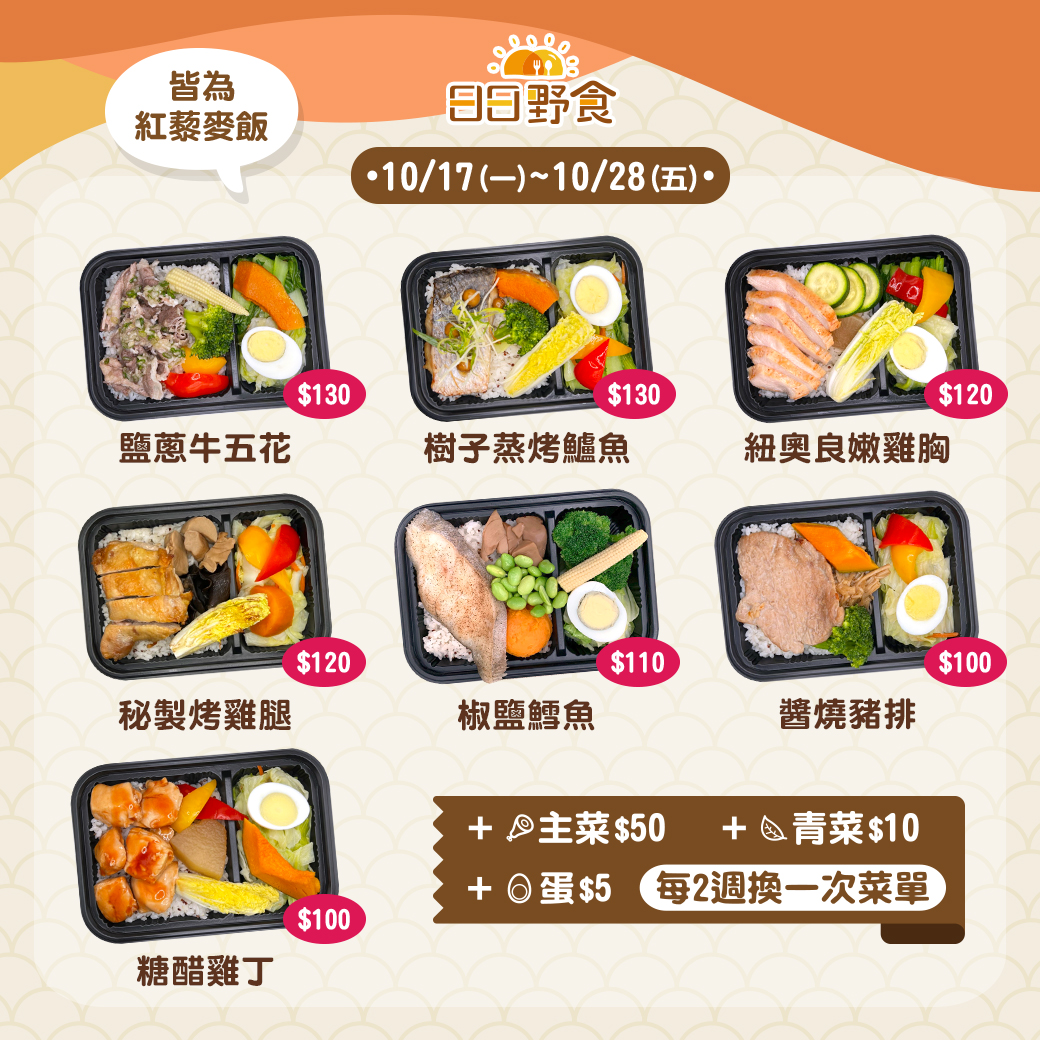
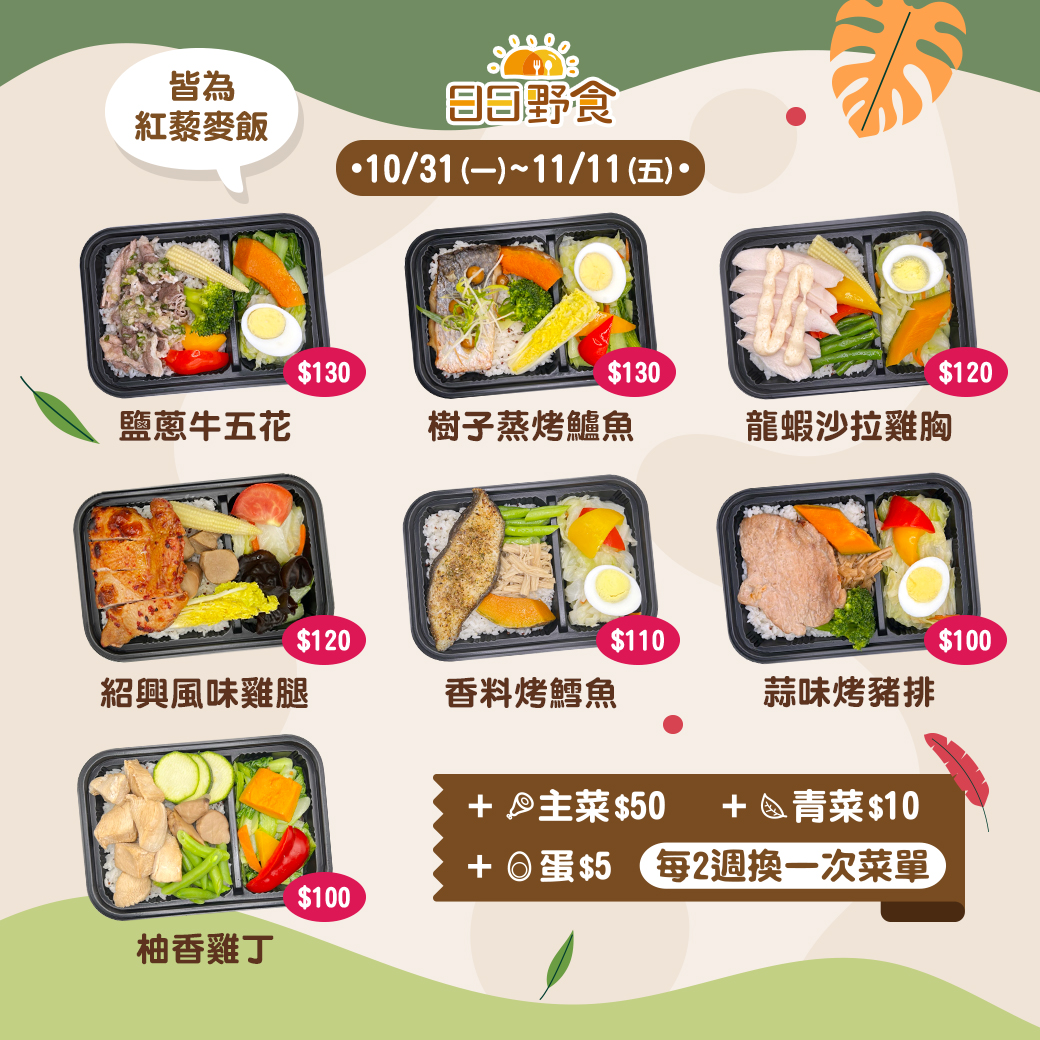
10/31

diff --git a/index.html b/index.html
@@ -137,9 +137,9 @@
 		<div class="row">
 			<div class="col-sm-6">
 				<div class="block wow fadeInLeft" data-wow-delay=".3s" data-wow-duration="500ms">
-					<!-- <div class="alert alert-secondary" role="alert">
-						📢9月份外送優惠，中正區、萬華區外送滿2000，現折200！其他地區現折100！<a href="delivery/index.html" class="btn btn-warning btn-sm"><i class="fa-solid fa-motorcycle"></i> 我要外送</a>
-					  </div> -->
+					<div class="alert alert-secondary" role="alert">
+						📢11月份外送優惠，外送滿2000，現折100！<a href="delivery/index.html" class="btn btn-warning btn-sm"><i class="fa-solid fa-motorcycle"></i> 我要外送</a>
+					  </div>
 					<!-- <h2>✨如何訂餐</h2> -->
 					<p>
 						歡迎加入LINE先訂餐
@@ -175,7 +175,7 @@
 <section id="works" class="works">
 	<div class="container">
 		<div class="section-heading">
-			<h1 class="title wow fadeInDown" data-wow-delay=".3s">🥦10/17(一)~10/28(五)最新菜單</h1>
+			<h1 class="title wow fadeInDown" data-wow-delay=".3s">🥦10/31(一)~11/11(五)最新菜單</h1>
 			<p class="wow fadeInDown" data-wow-delay=".5s">每2週換一次菜單，怎麼吃都吃不膩❤</p>
 		</div>
 		<div class="row">
@@ -192,11 +192,18 @@
 						🥦健康餐盒(紅藜麥飯)<br/>
 						✨鹽蔥牛五花 $130<br/>
 						✨樹子蒸烤鱸魚 $130<br/>
-						✨紐奧良嫩雞胸 $120<br/>
-						✨秘製烤雞腿 $120<br/>
-						✨椒鹽鱈魚 $110<br/>
-						✨醬燒豬排 $100<br/>
-						✨糖醋雞丁 $100<br/>
+						✨龍蝦沙拉雞胸 $120<br/>
+						✨紹興風味雞腿 $120<br/>
+						✨香料烤鱈魚 $110<br/>
+						✨蒜味烤豬排 $100<br/>
+						✨柚香雞丁 $100<br/>
+						-<br/>
+						雞胸肉推出了新口味<br/>
+						軟嫩的口感配上龍蝦沙拉醬<br/>
+						忍不住一口接一口啦！<br/>
+						還沒吃過我們超熱賣的鱸魚嗎?<br/>
+						喜歡魚魚的不要錯過<br/>
+						一定要趕快吃吃看！<br/>
 						-<br/>
 						✅每日選用新鮮蔬菜<br/>
 						✅每兩週換一次菜單<br/>

diff --git a/menu/index.html b/menu/index.html
@@ -104,7 +104,7 @@
 <section id="blog-full-width">
 	<div class="container">
     <div class="section-heading">
-			<h1 class="title wow fadeInDown" data-wow-delay=".3s">🥦10/17(一)~10/28(五)最新菜單</h1>
+			<h1 class="title wow fadeInDown" data-wow-delay=".3s">🥦10/31(一)~11/11(五)最新菜單</h1>
 			<p class="wow fadeInDown" data-wow-delay=".5s">每2週換一次菜單，怎麼吃都吃不膩❤</p>
 		</div>
     <div class="row">
@@ -119,13 +119,20 @@
 				<div class="fadeInRight" data-wow-delay=".3s" data-wow-duration="500ms">
 					<p class="menuText mt-4 mt-md-0">
 						🥦健康餐盒(紅藜麥飯)<br/>
-						✨鹽蔥牛五花 $130<br/>
+            ✨鹽蔥牛五花 $130<br/>
 						✨樹子蒸烤鱸魚 $130<br/>
-						✨紐奧良嫩雞胸 $120<br/>
-						✨秘製烤雞腿 $120<br/>
-						✨椒鹽鱈魚 $110<br/>
-						✨醬燒豬排 $100<br/>
-						✨糖醋雞丁 $100<br/>
+						✨龍蝦沙拉雞胸 $120<br/>
+						✨紹興風味雞腿 $120<br/>
+						✨香料烤鱈魚 $110<br/>
+						✨蒜味烤豬排 $100<br/>
+						✨柚香雞丁 $100<br/>
+						-<br/>
+						雞胸肉推出了新口味<br/>
+						軟嫩的口感配上龍蝦沙拉醬<br/>
+						忍不住一口接一口啦！<br/>
+						還沒吃過我們超熱賣的鱸魚嗎?<br/>
+						喜歡魚魚的不要錯過<br/>
+						一定要趕快吃吃看！<br/>
 						-<br/>
             ✅每日選用新鮮蔬菜<br/>
             ✅每兩週換一次菜單<br/>

diff --git a/findus/index.html b/findus/index.html
@@ -112,7 +112,7 @@
           《狸小路髮學館》門口<br/>
           🕛11:30～13:00<br/>
           -<br/>
-          <div class="font-weight-bold">2.開封街自取點</div>
+          <div class="font-weight-bold">2.開封街自取點(暫停)</div>
           📍台北市中正區開封街一段45號<br/>
           ✅郵局前方<br/>
           🕛11:30～13:00<br/>
